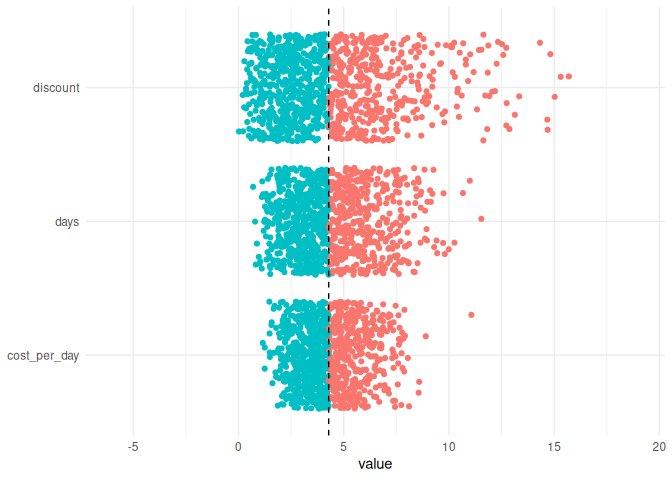
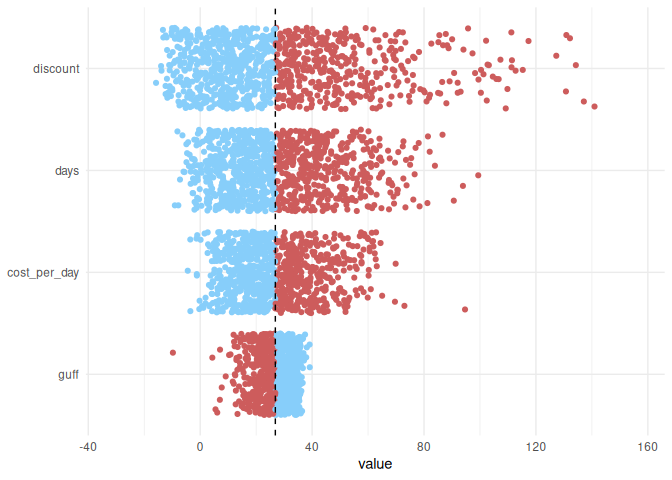
feat: colour by difference to variable mean

diff --git a/README.md b/README.md
@@ -45,13 +45,16 @@ set.seed(1)
 
 # Function with desired arguments
 # NOTE: MUST be vectorised by the user and return a scalar value
-fun <- function(cost_per_day, days, discount) cost_per_day * days * discount
+fun <- function(cost_per_day, days, discount, guff) {
+    10 * cost_per_day * days * discount - guff
+}
 
 # A distribution (from distributions3) for each function argument
 distributions <- list(
     cost_per_day = distributions3::Gamma(shape = 9, rate = 0.5),
     days         = distributions3::Gamma(shape = 5, rate = 1),
-    discount     = distributions3::Beta(alpha = 2, beta = 40)
+    discount     = distributions3::Beta(alpha = 2, beta = 40),
+    guff        = distributions3::Gamma(shape = 8, rate = 0.5)
 )
 
 # Number of samples to take for each argument
@@ -60,55 +63,73 @@ samples <- 1000
 # generate the samples for each parameter
 (dat <- tornado_sample(samples, fun, distributions))
 #> $cost_per_day
-#> # A tibble: 1,000 × 4
-#>    cost_per_day  days discount .result
-#>           <dbl> <dbl>    <dbl>   <dbl>
-#>  1        13.5      5   0.0476    3.22
-#>  2        25.6      5   0.0476    6.10
-#>  3        25.2      5   0.0476    6.01
-#>  4        19.5      5   0.0476    4.64
-#>  5         9.21     5   0.0476    2.19
-#>  6        20.0      5   0.0476    4.75
-#>  7        21.6      5   0.0476    5.14
-#>  8        20.5      5   0.0476    4.89
-#>  9        15.3      5   0.0476    3.63
-#> 10        12.7      5   0.0476    3.01
+#> # A tibble: 1,000 × 5
+#>    cost_per_day  days discount  guff .result
+#>           <dbl> <dbl>    <dbl> <dbl>   <dbl>
+#>  1        13.5      5   0.0476    16   16.2 
+#>  2        25.6      5   0.0476    16   45.0 
+#>  3        25.2      5   0.0476    16   44.1 
+#>  4        19.5      5   0.0476    16   30.4 
+#>  5         9.21     5   0.0476    16    5.92
+#>  6        20.0      5   0.0476    16   31.5 
+#>  7        21.6      5   0.0476    16   35.4 
+#>  8        20.5      5   0.0476    16   32.9 
+#>  9        15.3      5   0.0476    16   20.3 
+#> 10        12.7      5   0.0476    16   14.1 
 #> # ℹ 990 more rows
 #> 
 #> $days
-#> # A tibble: 1,000 × 4
-#>    cost_per_day  days discount .result
-#>           <dbl> <dbl>    <dbl>   <dbl>
-#>  1           18  7.73   0.0476    6.62
-#>  2           18  2.69   0.0476    2.31
-#>  3           18  4.65   0.0476    3.99
-#>  4           18  2.56   0.0476    2.20
-#>  5           18  2.76   0.0476    2.36
-#>  6           18  2.19   0.0476    1.87
-#>  7           18  5.84   0.0476    5.01
-#>  8           18  3.45   0.0476    2.96
-#>  9           18  8.31   0.0476    7.12
-#> 10           18  4.47   0.0476    3.83
+#> # A tibble: 1,000 × 5
+#>    cost_per_day  days discount  guff .result
+#>           <dbl> <dbl>    <dbl> <dbl>   <dbl>
+#>  1           18  7.73   0.0476    16   50.2 
+#>  2           18  2.69   0.0476    16    7.09
+#>  3           18  4.65   0.0476    16   23.9 
+#>  4           18  2.56   0.0476    16    5.97
+#>  5           18  2.76   0.0476    16    7.62
+#>  6           18  2.19   0.0476    16    2.74
+#>  7           18  5.84   0.0476    16   34.1 
+#>  8           18  3.45   0.0476    16   13.6 
+#>  9           18  8.31   0.0476    16   55.2 
+#> 10           18  4.47   0.0476    16   22.3 
 #> # ℹ 990 more rows
 #> 
 #> $discount
-#> # A tibble: 1,000 × 4
-#>    cost_per_day  days discount .result
-#>           <dbl> <dbl>    <dbl>   <dbl>
-#>  1           18     5   0.0493   4.43 
-#>  2           18     5   0.0541   4.87 
-#>  3           18     5   0.0434   3.90 
-#>  4           18     5   0.0177   1.60 
-#>  5           18     5   0.0109   0.977
-#>  6           18     5   0.0551   4.96 
-#>  7           18     5   0.0179   1.61 
-#>  8           18     5   0.0711   6.40 
-#>  9           18     5   0.0840   7.56 
-#> 10           18     5   0.0531   4.77 
+#> # A tibble: 1,000 × 5
+#>    cost_per_day  days discount  guff .result
+#>           <dbl> <dbl>    <dbl> <dbl>   <dbl>
+#>  1           18     5   0.0493    16 28.3   
+#>  2           18     5   0.0541    16 32.7   
+#>  3           18     5   0.0434    16 23.0   
+#>  4           18     5   0.0177    16 -0.0422
+#>  5           18     5   0.0109    16 -6.23  
+#>  6           18     5   0.0551    16 33.6   
+#>  7           18     5   0.0179    16  0.0704
+#>  8           18     5   0.0711    16 48.0   
+#>  9           18     5   0.0840    16 59.6   
+#> 10           18     5   0.0531    16 31.7   
+#> # ℹ 990 more rows
+#> 
+#> $guff
+#> # A tibble: 1,000 × 5
+#>    cost_per_day  days discount  guff .result
+#>           <dbl> <dbl>    <dbl> <dbl>   <dbl>
+#>  1           18     5   0.0476  9.21    33.6
+#>  2           18     5   0.0476 20.1     22.8
+#>  3           18     5   0.0476 16.9     26.0
+#>  4           18     5   0.0476 21.6     21.3
+#>  5           18     5   0.0476 18.5     24.4
+#>  6           18     5   0.0476 17.8     25.0
+#>  7           18     5   0.0476 12.6     30.3
+#>  8           18     5   0.0476 13.6     29.2
+#>  9           18     5   0.0476 10.8     32.0
+#> 10           18     5   0.0476 11.2     31.7
 #> # ℹ 990 more rows
 #> 
 #> attr(,"baseline")
-#> [1] 4.285714
+#> [1] 26.85714
+#> attr(,"output_name")
+#> [1] ".result"
 #> attr(,"class")
 #> [1] "tornado_samples"
 ```
